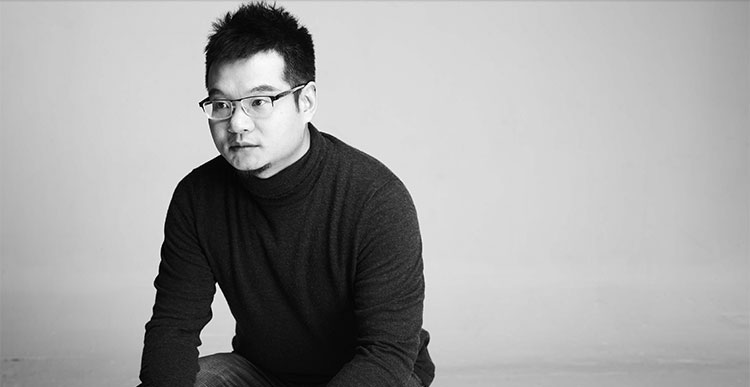
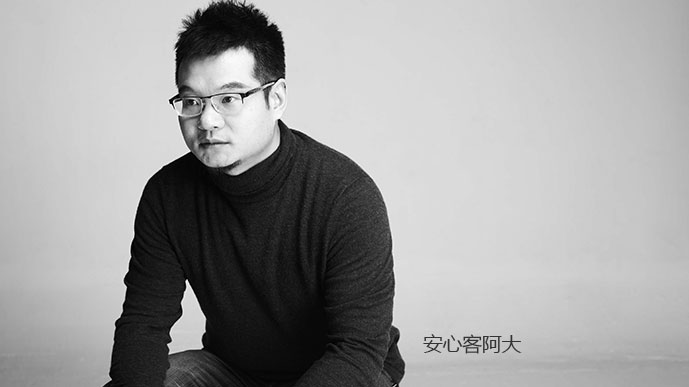
服务详情

diff --git a/src/app/weixin/app/bama/about.html b/src/app/weixin/app/bama/about.html
@@ -14,6 +14,7 @@
 </head>
 <body>
 
+    <h1 class="about-h1">关于我们</h1>
     <header class="about-pic"></header>
     <section class="about-intr-wrap">
     	<p class="about-intr about-title">在这里，三甲医院、社区医院的专业医护人员将为老人提供专业的健康管理服务；</p>

diff --git a/src/app/weixin/app/bama/css/service.css b/src/app/weixin/app/bama/css/service.css
@@ -94,6 +94,14 @@
 	color: #fff;
 }
 /* 关于我们页面样式 */
+.about-h1{
+	height: 56px;
+	line-height: 56px;
+	color: #333;
+	font-size: 19px;
+	text-align: center;
+	font-weight: bold;
+}
 .about-pic{
 	height: 194px;
 	background: url(../imgs/ad.jpg) no-repeat;
